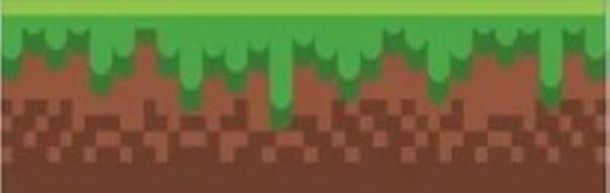
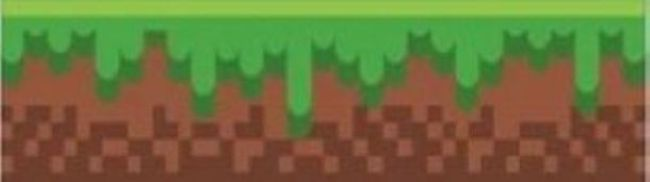
background completed

diff --git a/index1.py b/index1.py
@@ -3,22 +3,34 @@ from pygame.locals import *
 
 pygame.init()
 
+clock = pygame.time.Clock()
+fps = 60
+
 gameWindow = pygame.display.set_mode((604, 500))
 pygame.display.set_caption("Flappy Bird")
 
+#define game variables
+ground_scroll = 0 
+scroll_speed = 4
+
 #load images
 bg = pygame.image.load("background.jpg")
-ground_img = pygame.image.load("ground1.jpg")
+ground_img = pygame.image.load("ground2.jpg")
 
 run = True 
 #creating a game loop
 while run:
 
+    clock.tick(fps)
+
     #draw background
     gameWindow.blit(bg, (0,0))
 
     #draw and scroll the ground 
-    gameWindow.blit(ground_img, (0,350))
+    gameWindow.blit(ground_img, (ground_scroll,350))
+    ground_scroll -= scroll_speed 
+    if abs(ground_scroll)> 55:
+        ground_scroll = 0
     
     for event in pygame.event.get():
         if event.type == pygame.QUIT:
